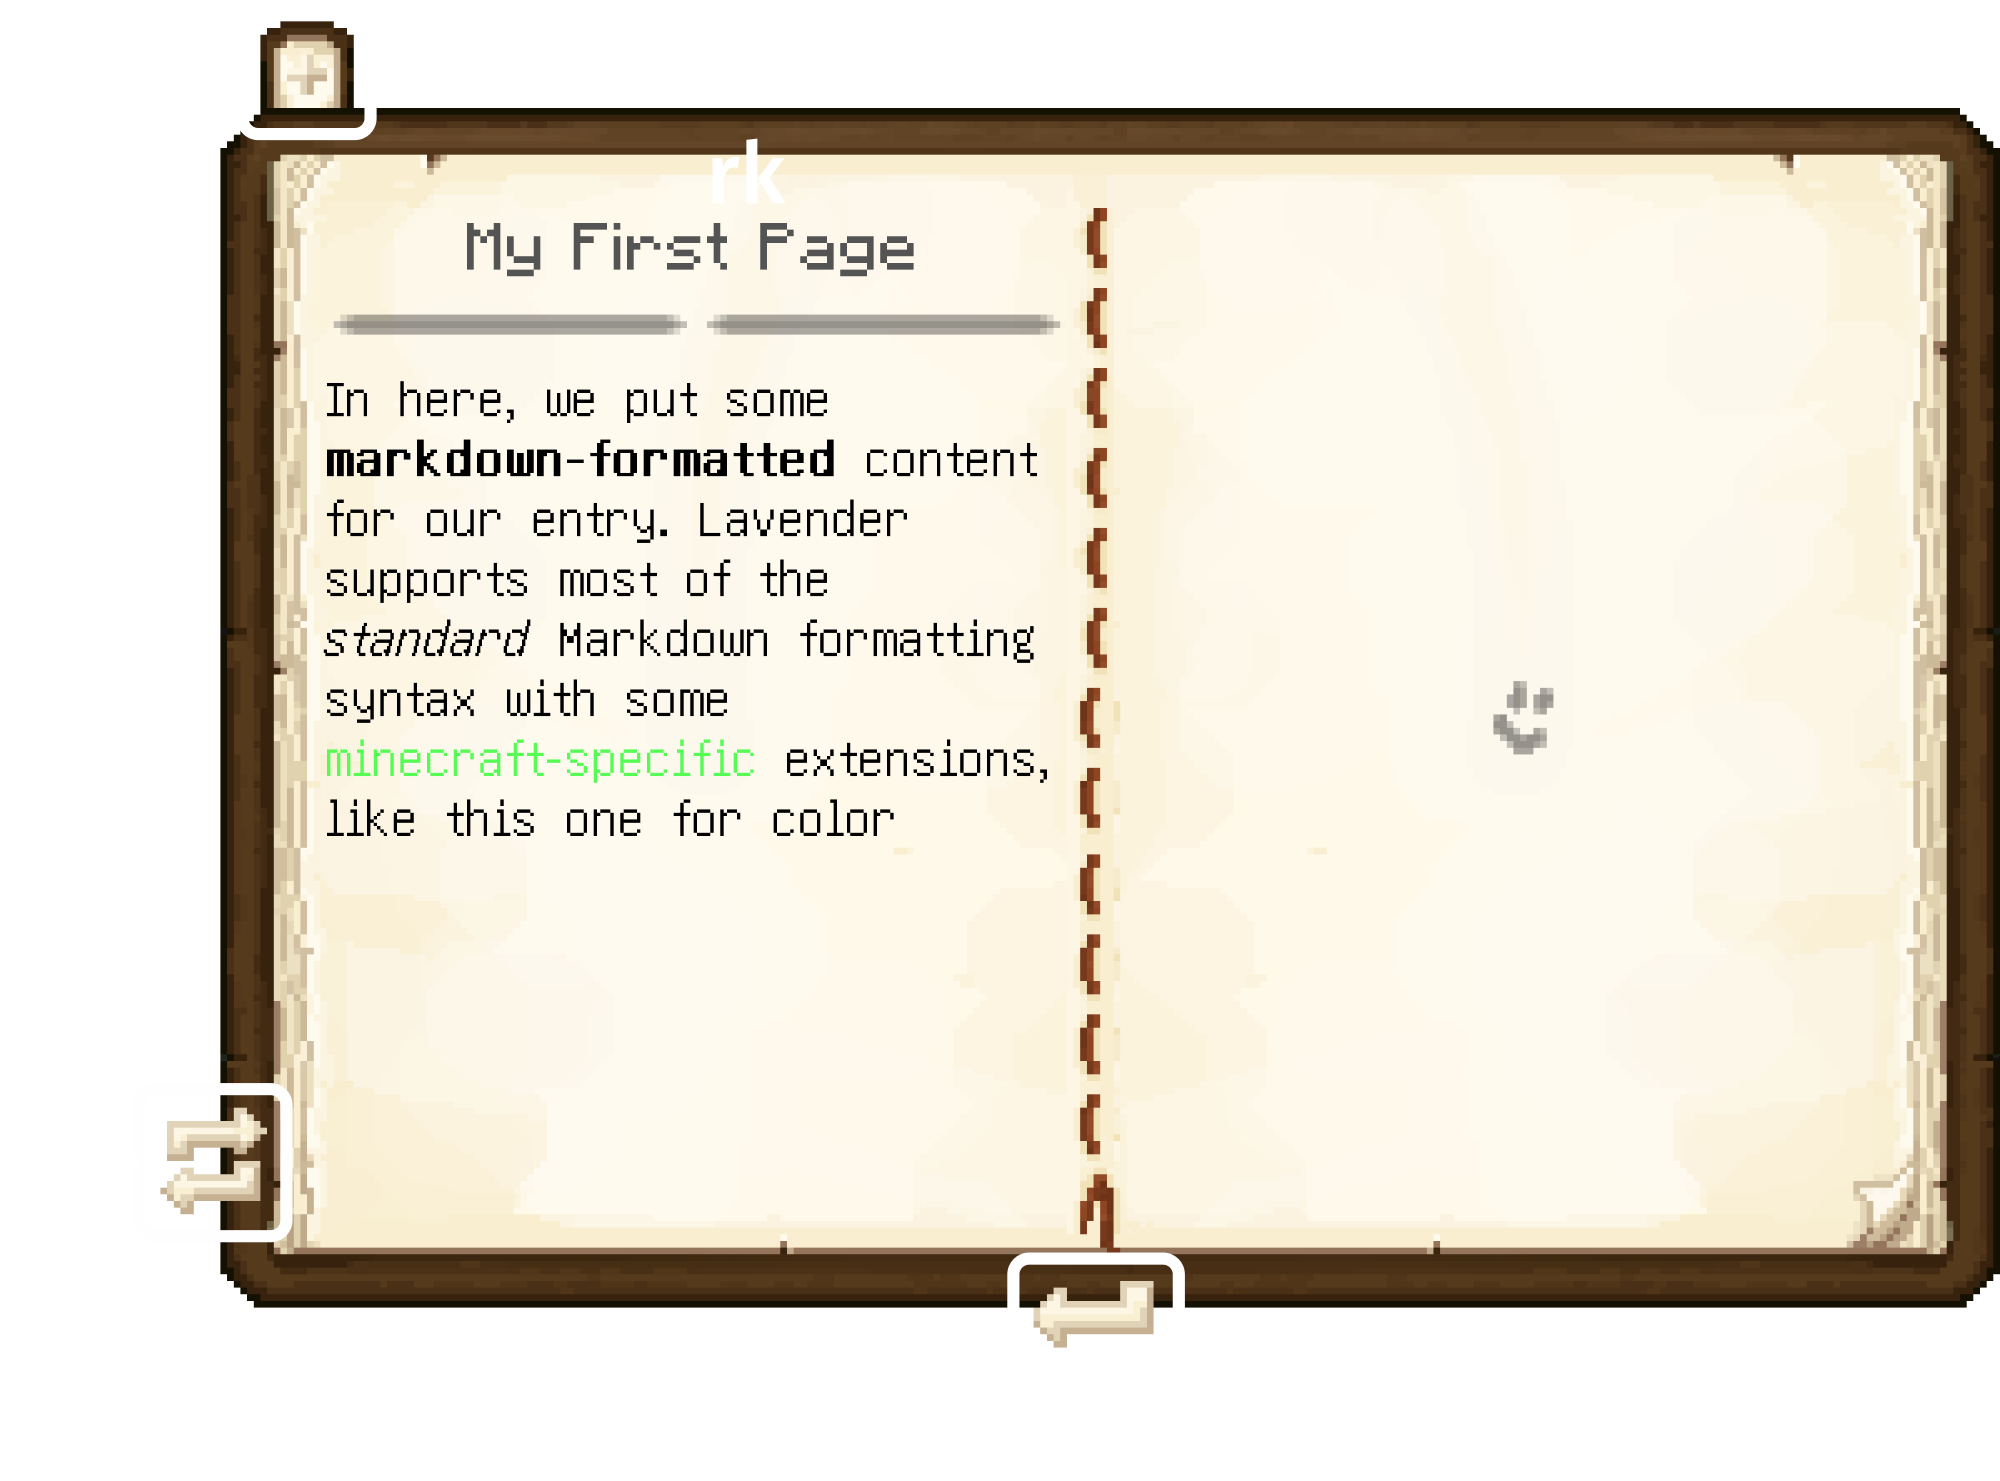
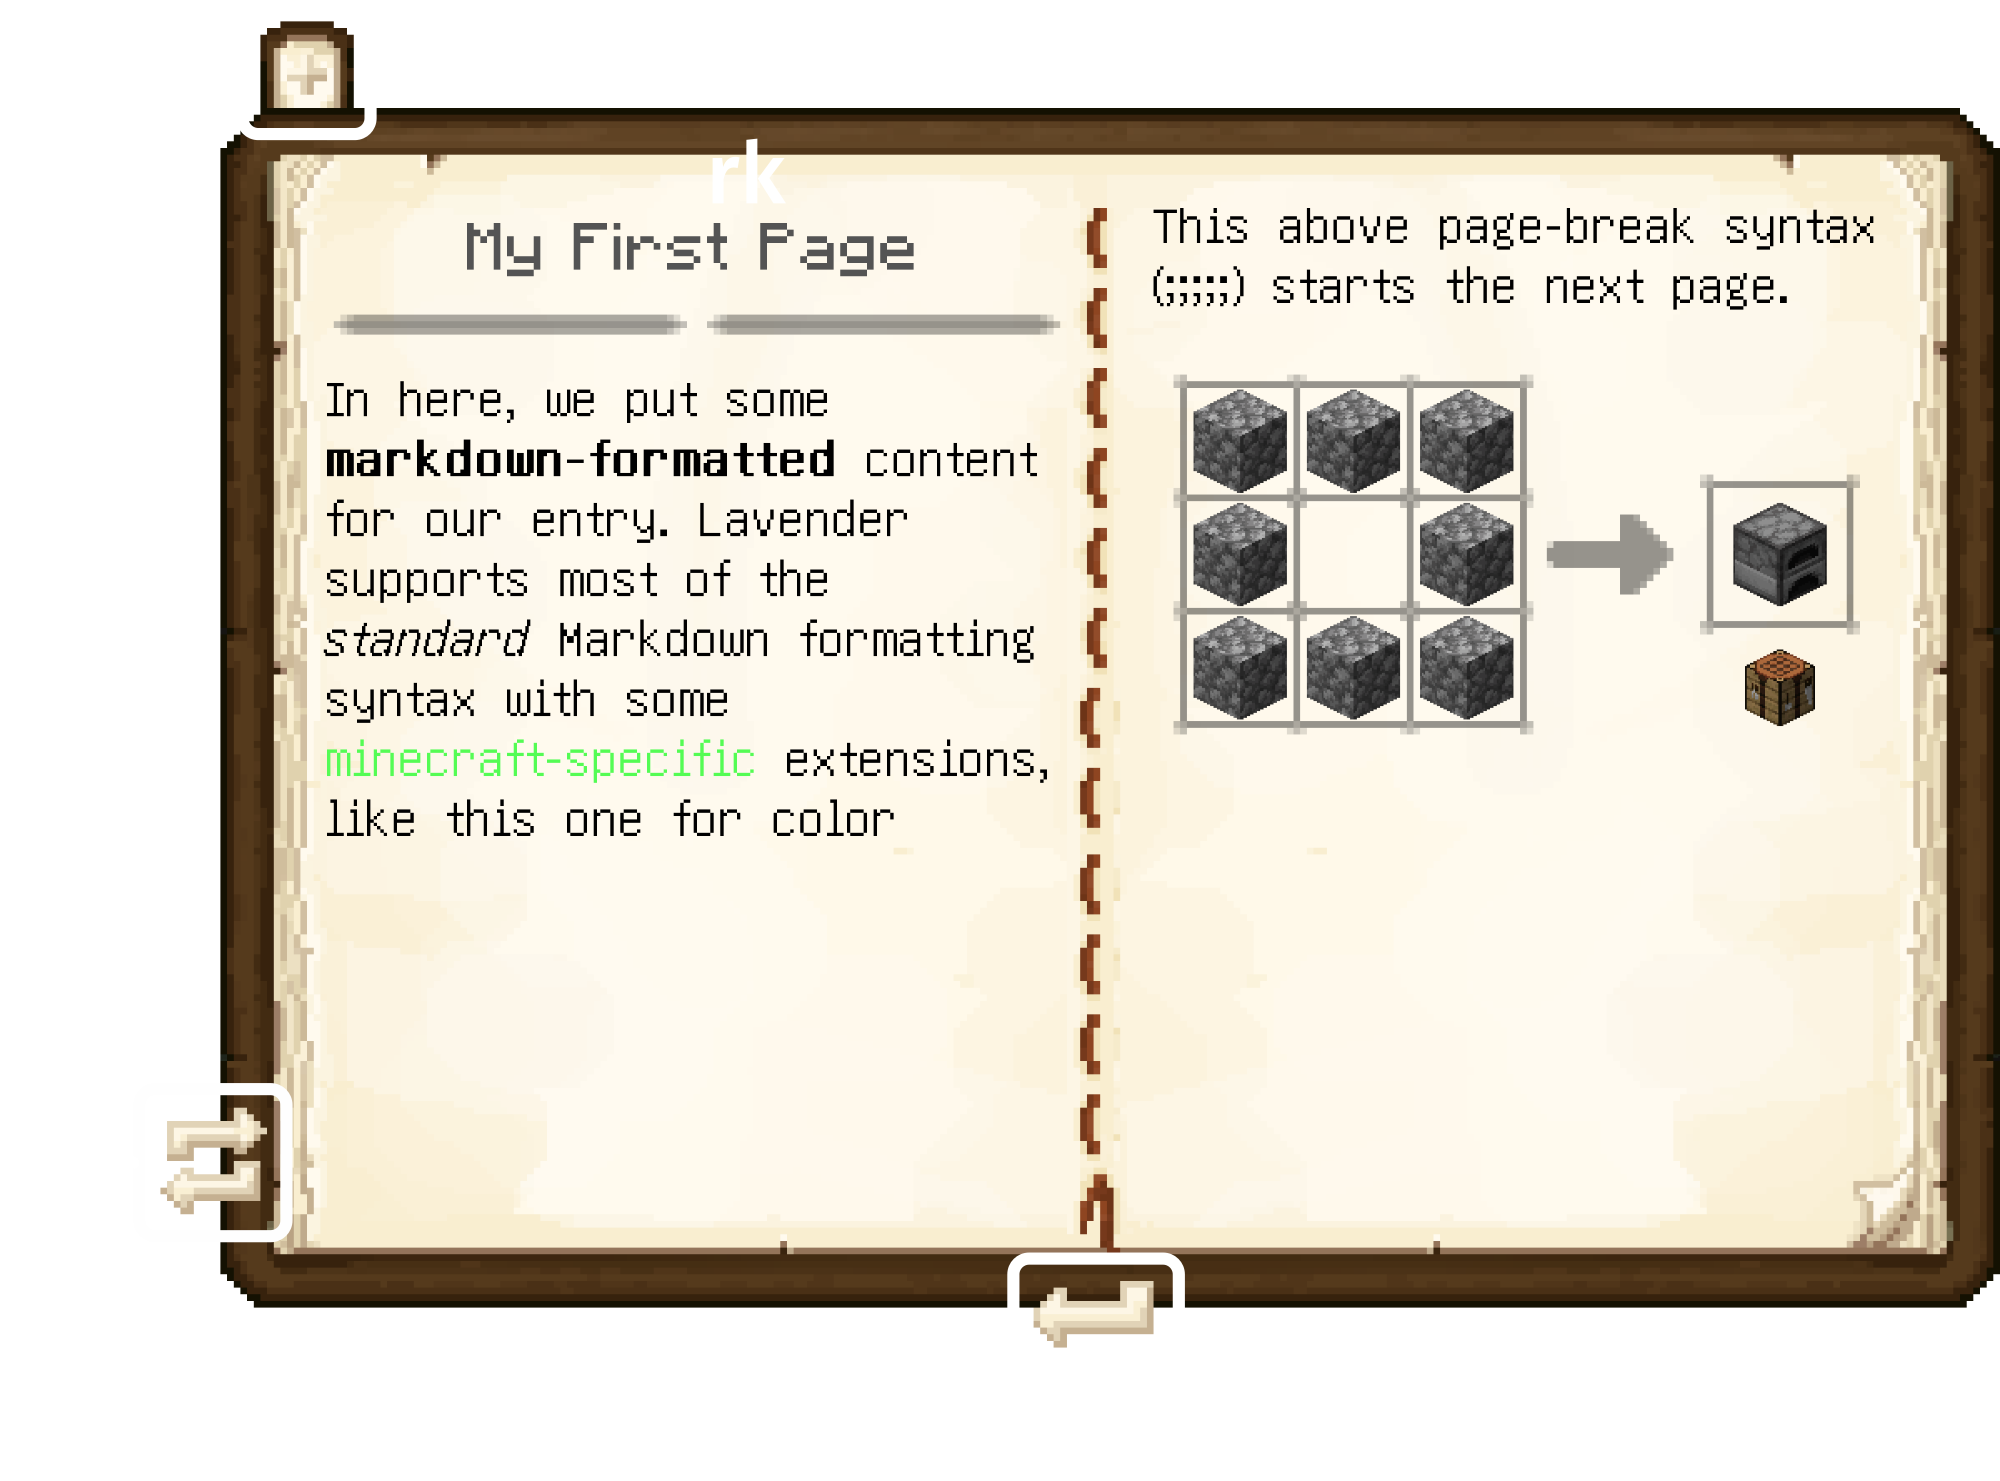
add lavender structure documentation

Changed region(s): [[0.589, 0.2485, 0.93, 0.528], [0.589, 0.1242, 0.93, 0.2174]]

diff --git a/docs/overrides.css b/docs/overrides.css
@@ -22,6 +22,10 @@
   margin: 25px 0px;
 }
 
+.round-image {
+  border-radius: 15px;
+}
+
 .center-image {
   display: block;
   margin-right: auto;

diff --git a/docs/lavender/structures.md b/docs/lavender/structures.md
@@ -1,0 +1,130 @@
+---
+title: Structures
+project: lavender
+---
+
+Many mods involve multiblock structures of some kind, which can be hard if not nigh impossible to describe using text alone. It is almost always preferrable to simply give the player a direct preview of what the structure looks like when fully built.
+
+For this purpose, Lavender (much like Patchouli) offers structure preview & verification. The player can preview your structures in your book *and* right in the world - layer by layer if necessary.
+
+## Creating a structure definition
+
+In this tutorial, we'll be creating the structure definition for the well you see in this screenshot:
+![a stone-brick well in minecraft](../assets/lavender/well-prebuilt.png){ .docs-image }
+
+To get started, create a JSON file in `assets/mymod/lavender/structures` - we'll call it `well.json`, for obvious reasons. Then, create the two base elements of a structures definition. If you've worked with the JSON representation of shaped recipes before, this might look familiar:
+
+- `keys`, object<br>
+  The keys object is a mapping from single-character keys to the block(s) they represent. The value associated with each key must be a stringified block state - the kind of input the `/setblock` command expects. 
+- `layers`, array of arrays<br>
+  Each inner array of the `layers` array describes a single layer of your structure, from the bottom up. Each layer in turn contains a string, where each character represent a block through the mappings defined in `keys`
+
+Let's start by adding all of the keys required for the well:
+```json title="well.json"
+{
+  "keys": {
+    "c": "minecraft:chiseled_stone_bricks",
+    "s": "minecraft:stone_brick_stairs[facing=north]",
+    "u": "minecraft:stone_brick_stairs[facing=south]",
+    "e": "minecraft:stone_brick_stairs[facing=east]",
+    "t": "minecraft:stone_brick_stairs[facing=west]",
+    "l": "minecraft:smooth_stone_slab",
+    "b": "minecraft:stone_bricks",
+    "w": "minecraft:stone_brick_wall",
+    "a": "minecraft:lantern"
+  },
+  "layers": []
+}
+```
+
+You'll notice that we added the Stone Brick Stairs four times, each with a different facing - this also nicely demonstrates how to use block state properties. 
+
+Now, let's get to defining the first layer of our structure. Let's take a look at just the first layer:
+
+![first layer of well structure, isolated](../assets/lavender/well-first-layer.png){ width=300 .center-image }
+
+To turn it into a layer, we simply go row-by-row, adding a new string to the layer's array for each. Remembering that the key for Stone Bricks is `b` and Chiseled Stone Bricks are `c`, we end up with this layer definition:
+
+```json title="well.json"
+{
+  "keys": { ... },
+  "layers": [
+    [
+      "bbbbb",
+      "bcbcb",
+      "bbbbb",
+      "bcbcb",
+      "bbbbb"
+    ]
+  ]
+}
+```
+
+Comparing this with the above snapshot of the layer in-game, the 1:1 correspondence between block layout and layer definition should be abundantly clear. We continue with the other layers in the same fashion, leaving us with a final structure definition that looks like this:
+
+```json
+{
+  "keys": {
+    "c": "minecraft:chiseled_stone_bricks",
+    "s": "minecraft:stone_brick_stairs[facing=north]",
+    "u": "minecraft:stone_brick_stairs[facing=south]",
+    "e": "minecraft:stone_brick_stairs[facing=east]",
+    "t": "minecraft:stone_brick_stairs[facing=west]",
+    "l": "minecraft:smooth_stone_slab",
+    "b": "minecraft:stone_bricks",
+    "w": "minecraft:stone_brick_wall",
+    "a": "minecraft:lantern"
+  },
+  "layers": [
+    [
+      "bbbbb",
+      "bcbcb",
+      "bbbbb",
+      "bcbcb",
+      "bbbbb"
+    ],
+    [
+      "culuc",
+      "e   t",
+      "l b l",
+      "e   t",
+      "cslsc"
+    ],
+    [
+      "w   w",
+      "     ",
+      "  c  ",
+      "     ",
+      "w   w"
+    ],
+    [
+      "a   a",
+      "     ",
+      "  b  ",
+      "     ",
+      "a   a"
+    ]
+  ]
+}
+```
+
+You'll notice that where there's air (or, well, nothing) in our structure we put a space (` `) - Lavender automatically interprets this to mean "anything goes" (including other blocks!). If you specifically want a space to be empty, use an underscore (`_`) instead.
+
+## Adding the structure to an entry
+
+Just like the other game elements described in [Markdown Syntax](markdown-syntax.md#game-elements), a structure is inserted into an entry (or, if you need this for some reason, category) using the `<structure;"structure ID here">` syntax. Thus, to insert the structure we just defined, we use `<structure:mymod:well>`
+
+![well preview inside a lavender book](../assets/lavender/well-book-preview.png){ .docs-image .center-image }
+
+## Previewing in-game
+
+Once you have the structure successfully showing up in a book, simply clicking it suffices to place it into the game world. While the preview is following your view, you can scroll to rotate and then right-click to anchor it.
+
+When the preview is placed, the progress-bar in the bottom left of your screen indicates progress towards completing the structure - it also turns red there is invalid block. Said blocks also get marked with a pulsating mining overlay to clearly indicate this information to the player.
+
+<center>
+    ![well preview in-game](../assets/lavender/well-world-preview-full.png){ width=300 .round-image style="margin-right: 1.5em;" }
+    ![well preview in-game](../assets/lavender/well-world-preview-layer.png){ width=300 .round-image }
+</center>
+
+When your structure has multiple layers, like the well does, you can use the slider that appears next to the preview in the book to change which layer is displayed.

diff --git a/docs/lavender/getting-started.md b/docs/lavender/getting-started.md
@@ -25,7 +25,7 @@ For `entries` and `categories`, as you can see, you place the files in a second 
 ## Creating the Book Definition
 
 To make your first book, create its book definition (for this example we'll be making `my_book.json`) and give it the required content:
-```json
+```json title="my_book.json"
 {}
 ```
 
@@ -43,7 +43,7 @@ Yes, that is in fact all that's required for a minimal book definition - you jus
 
 Now that we have our book defined, let's start by adding a first entry. To do this, since our book is called `my_book`, we add `my_first_entry.md` into `assets/mymod/lavender/entries/my_book/` and give it the following content:
 
-```markdown
+```markdown title="my_first_entry.md"
 ```json
 {
   "title": "My First Page",
@@ -57,6 +57,11 @@ Now that we have our book defined, let's start by adding a first entry. To do th
 In here, we put some **markdown-formatted** content for our entry. Lavender 
 supports most of the *standard* Markdown formatting syntax with some 
 {green}minecraft-specific{} extensions, like this one for color
+
+;;;;;
+
+This above page-break syntax (;;;;;) starts the next page.
+<recipe;minecraft:furnace>
 ```
 
 At this point, you're ready to open your book for the first time! Go ahead and start the game (or, if it is already running, do a resource reload with ++f3+t++) - Lavender will now have loaded your book and the first entry we just wrote. To get yourself a dynamic book for testing, run `/get-lavender-book mymod:my_book`. Then, after opening the book and selecting your entry, you'll be greeted by the following screen:
@@ -75,7 +80,7 @@ Further, if you take out some Nether Quartz Ore and hover it while having the bo
 
 Now that we have made an entry (and it should hopefully be abundantly clear how to create more of them), let's move on to creating a category. Analogously to entries, categories must be placed in the `assets/mymod/lavender/categories/my_book/` directory of your mod's resource pack (specifically, we'll save it as `a_category.md`). The format for categories, as you can see below, is very similar to entries - only the frontmatter is slightly different:
 
-```markdown
+```markdown title="a_category.md"
 ```json
 {
   "title": "A Category",
@@ -90,7 +95,7 @@ single page to work with.
 
 Now, in order for your category to actually show in the book, at least one entry must be inside it. To this end, modify the frontmatter of the entry we made previously:
 
-```markdown
+```markdown title="my_first_entry.md"
 ```json
 {
   "title": "My First Page",
@@ -106,7 +111,7 @@ Now, in order for your category to actually show in the book, at least one entry
 
 ```
 
-After making these changes, sync them to your game instance and press the reload button to see them in action! You'll also have noticed by now that Lavender can handle entries without a category (contrary to what you might be used to from Patchouli). This can be quite useful if you have an introductory entry that doesn't really belong anywhere else *or* if your mod is not complex enough to warrant multiple categories.
+After making these changes, sync them to your game instance and press the reload button to see them in action! You'll also have noticed by now that Lavender can handle entries without a category (contrary to what you might be used to from Patchouli). This can be quite useful if you have an introductory entry that doesn't really belong anywhere else *or* if your mod is just not complex enough to warrant multiple categories.
 
 ## Finishing up
 
@@ -117,4 +122,5 @@ To end of this introductory tutorial, we'll add a landing page entry to the book
 While this introduction should get you up to speed on writing basic documentation, there's a lot more that Lavender has to offer in terms of Markdown syntax and metadata. To read more about this, check out the following articles:
 
  - [Metadata Format](metadata-format.md) holds information on all flags and other metadata you can put into the frontmatter of both entries and categories
- <!-- - []() -->
+ - [Markdown Syntax](markdown-syntax.md) is a comprehensive reference of all syntax elements supported by Lavender's Markdown implementation
+ - [Writing Extensions](writing-extensions.md) outlines the process of extending another mod's book with your own entries and categories - very helpful when making an add-on for another mod

diff --git a/docs/lavender/writing-extensions.md b/docs/lavender/writing-extensions.md
@@ -6,7 +6,7 @@ project: lavender
 **:material-progress-alert: Work-in-progress**
 
 
-If you are writing an addon to another mod which uses Lavender, you might want to integrate the documentation for your additions into the mod's existing guidebook. In order to keep clean separation between the original mod's and your addon's resources, Lavender offers **extension books** for this purpose.
+If you are writing an add-on to another mod which uses Lavender, you might want to integrate the documentation for your additions into the mod's existing guidebook. In order to keep clean separation between the original mod's and your addon's resources, Lavender offers **extension books** for this purpose.
 
 
 ### Defining an extension
